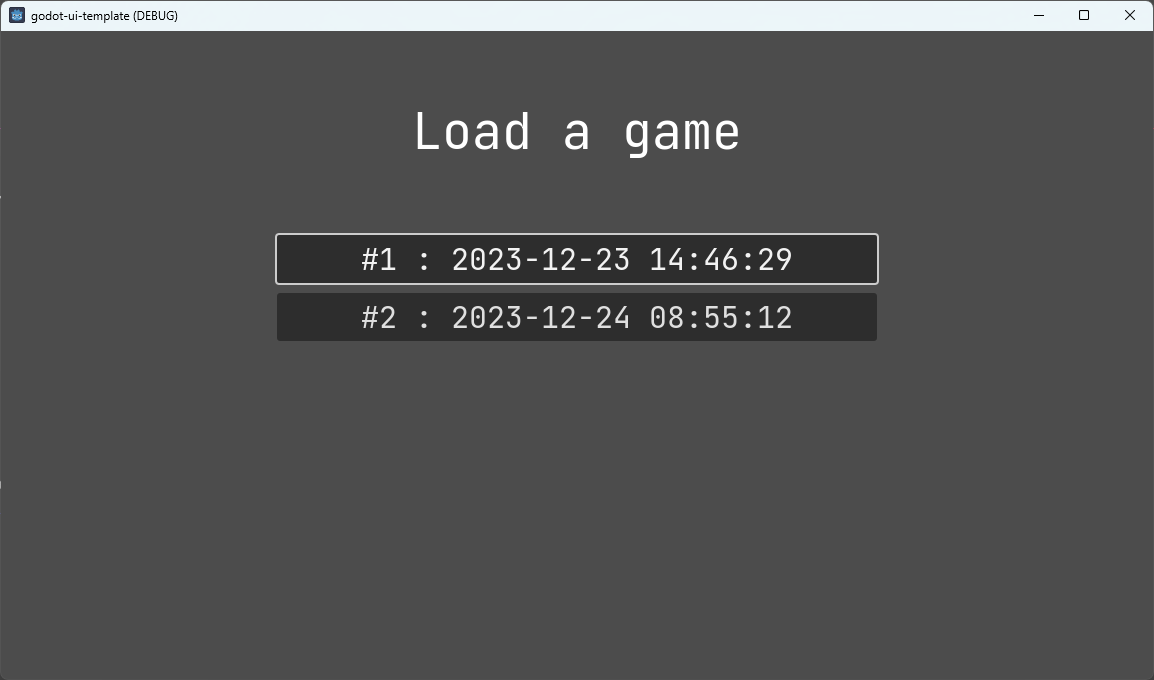
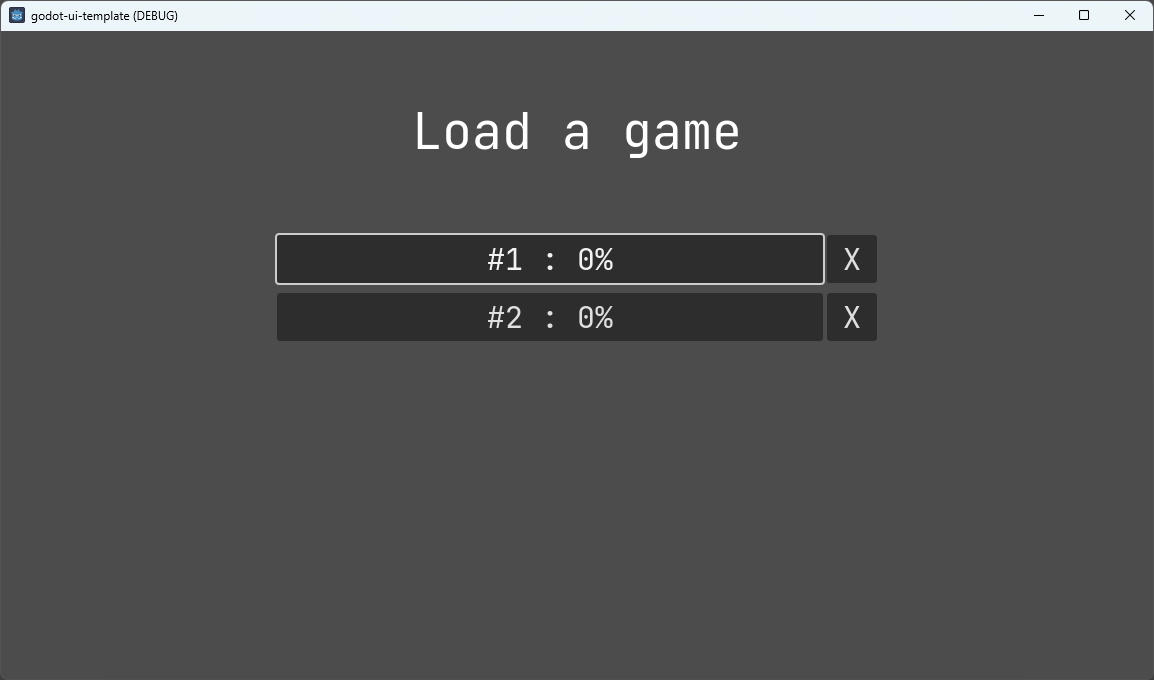
Updated readme file

diff --git a/README.md b/README.md
@@ -14,6 +14,33 @@ You can either use the nodes and scripts as they are, modify them to your game o
 
 Most features in this repository depend in one or other way on some of the autoload nodes to be enabled in the project. They are listed below.
 
+### DialogLauncher
+
+This autoload makes it easy to show an accept (alert) or confirmation dialog.
+
+#### Properties
+
+| Name                                   | Description                                                             |
+| -------------------------------------- | ----------------------------------------------------------------------- |
+| String **accept_title**                | Title for accept dialogs. Default: `"Alert"`                            |
+| String **accept_button_ok_label**      | Label for OK button in accept dialogs. Default: `"Ok"`                  |
+| String **confirm_title**               | Title for confirmation dialogs. Default: `"Confirmation"`               |
+| String **confirm_button_ok_label**     | Label for OK button in confirmation dialogs. Default: `"Yes, I'm sure"` |
+| String **confirm_button_cancel_label** | Label for Cancel button in confirmation dialogs. Default: `"No"`        |
+
+#### Methods
+
+| Name                              | Description                                                                      |
+| --------------------------------- | -------------------------------------------------------------------------------- |
+| void **confirm**(message: String) | Show confirmation dialog at the center of the screen, with Ok and Cancel buttons |
+| void **accept**(message: String)  | Show accept dialog at the center of the screen, with Ok button                   |
+
+#### Signals
+
+| Name                                | Description                                           |
+| ----------------------------------- | ----------------------------------------------------- |
+| **user_confirmed**(confirmed: bool) | Called after user confirm or cancel the latest dialog |
+
 ### FreezeManager
 
 Manages how the game freezes processes, usually necessary for pausing the game or taking physics away while doing scene transitions or cut scenes.
@@ -129,7 +156,7 @@ The button "Load Game" only appears if there are saved games.
 
 #### Load a Game
 
-List all saved games, so user can chose of them.
+List all saved games, so user can chose of them. it also shows an "X" button at the side for game deletion, with a confirmation dialog.
 
 Limited up to a maximum of 5 games (configurable).
 
